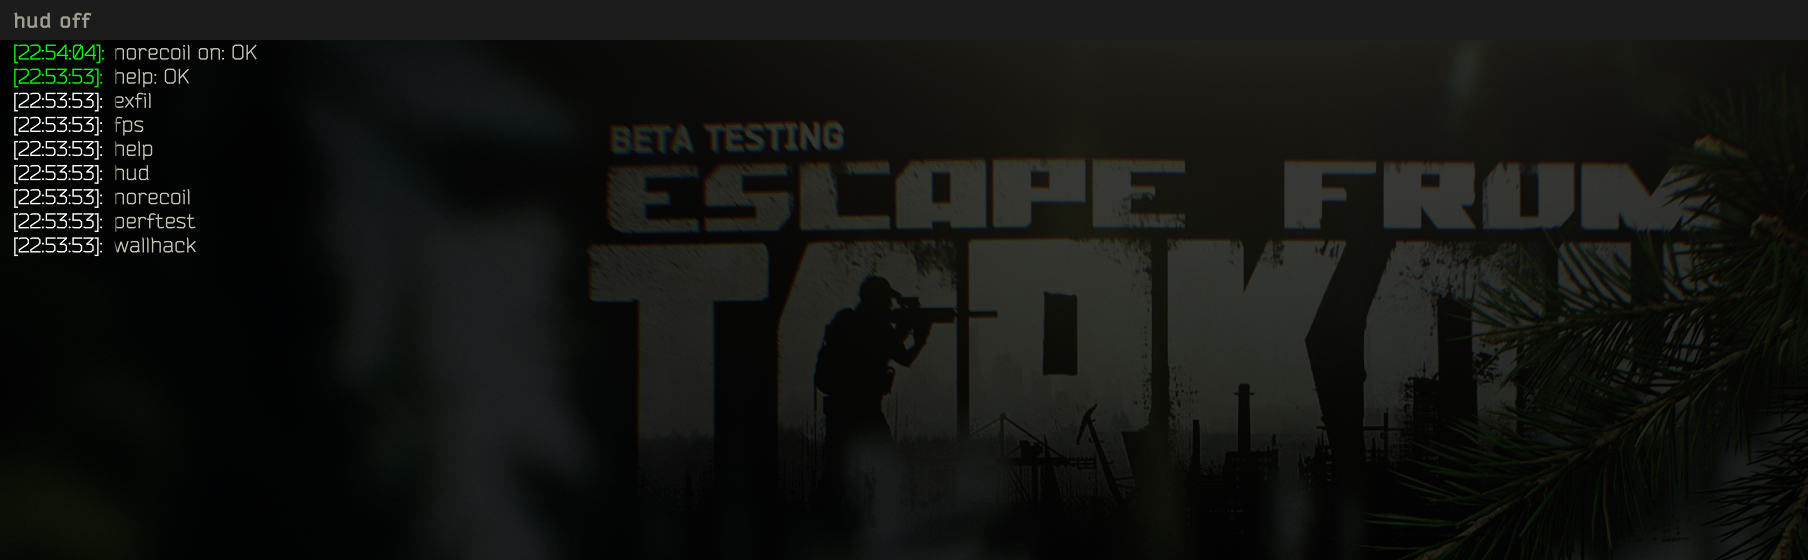
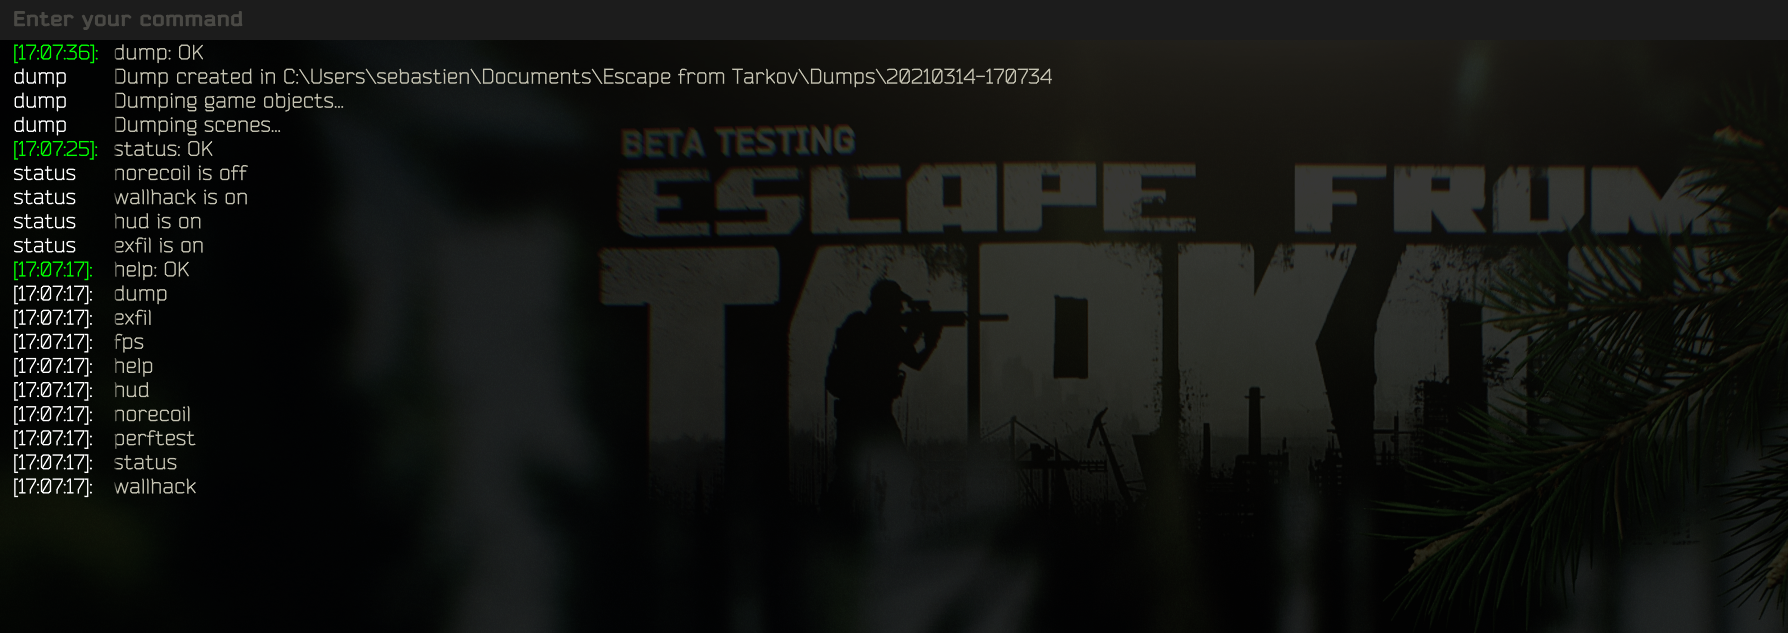
reintroduce scene dumpers, add commands

diff --git a/Features/Commands.cs b/Features/Commands.cs
@@ -1,6 +1,10 @@
-using System.Text.RegularExpressions;
+using System;
+using System.Collections.Generic;
+using System.IO;
+using System.Text.RegularExpressions;
 using EFT.UI;
 using UnityEngine;
+using UnityEngine.SceneManagement;
 
 namespace EFT.Trainer.Features
 {
@@ -8,6 +12,13 @@ namespace EFT.Trainer.Features
 	{
 		public bool Registered { get; set; } = false;
 		public const string ValueGroup = "value";
+		private readonly Dictionary<string, Type> _features = new()
+		{
+			{"exfil", typeof(ExfiltrationPoints)},
+			{"hud", typeof(Hud)},
+			{"wallhack", typeof(Players)},
+			{"norecoil", typeof(Recoil)}
+		};
 
 		public void Update()
 		{
@@ -26,23 +37,68 @@ namespace EFT.Trainer.Features
 			if (commands.Count == 0)
 				return;
 
-			commands.AddCommand(new GClass1907($"exfil (?<{ValueGroup}>(on)|(off))", OnTriggerFeature<ExfiltrationPoints>));
-			commands.AddCommand(new GClass1907($"hud (?<{ValueGroup}>(on)|(off))", OnTriggerFeature<Hud>));
-			commands.AddCommand(new GClass1907($"wallhack (?<{ValueGroup}>(on)|(off))", OnTriggerFeature<Players>));
-			commands.AddCommand(new GClass1907($"norecoil (?<{ValueGroup}>(on)|(off))", OnTriggerFeature<Recoil>));
+			foreach (var (featureName, featureType) in _features)
+			{
+				commands.AddCommand(new GClass1907($"{featureName} (?<{ValueGroup}>(on)|(off))", m => OnTriggerFeature(featureType, m)));
+			}
+
+			commands.AddCommand(new GClass1907("dump", _ => Dump()));
+			commands.AddCommand(new GClass1907("status", _ => Status()));
 
 			Registered = true;
 			Destroy(this);
 		}
 
-		public void OnTriggerFeature<T>(Match match) where T : MonoBehaviour, IEnableable
+		private void Status()
+		{
+			foreach (var (featureName, featureType) in _features)
+			{
+				if (Loader.HookObject.GetComponent(featureType) is not IEnableable feature)
+					return;
+
+				PreloaderUI.Instance.Console.AddLog($"{featureName} is {(feature.Enabled ? "on" : "off")}", "status");
+			}
+		}
+
+		private static void Dump()
+		{
+			var dumpfolder = Path.Combine(Environment.GetFolderPath(Environment.SpecialFolder.MyDocuments), "Escape from Tarkov", "Dumps");
+			var thisDump = Path.Combine(dumpfolder, $"{DateTime.Now:yyyyMMdd-HHmmss}");
+
+			Directory.CreateDirectory(thisDump);
+
+			PreloaderUI.Instance.Console.AddLog("Dumping scenes...", "dump");
+			for (int i = 0; i < SceneManager.sceneCount; i++) 
+			{
+				var scene = SceneManager.GetSceneAt(i);
+				if (!scene.isLoaded)
+					continue;
+
+				var json = SceneDumper.DumpScene(scene).ToPrettyJson();
+				File.WriteAllText(Path.Combine(thisDump, $"@scene - {scene.name}.txt"), json);
+			}
+
+			PreloaderUI.Instance.Console.AddLog("Dumping game objects...", "dump");
+			foreach (var go in FindObjectsOfType<GameObject>())
+			{
+				if (go == null || go.transform.parent != null || !go.activeSelf) 
+					continue;
+
+				var filename = go.name + "-" + go.GetHashCode() + ".txt";
+				var json = SceneDumper.DumpGameObject(go).ToPrettyJson();
+				File.WriteAllText(Path.Combine(thisDump, filename), json);
+			}
+
+			PreloaderUI.Instance.Console.AddLog($"Dump created in {thisDump}", "dump");
+		}
+
+		public void OnTriggerFeature(Type featureType, Match match)
 		{
 			var matchGroup = match?.Groups[ValueGroup];
 			if (matchGroup == null || !matchGroup.Success)
 				return;
 
-			var feature = Loader.HookObject.GetComponent<T>();
-			if (feature == null)
+			if (Loader.HookObject.GetComponent(featureType) is not IEnableable feature)
 				return;
 
 			feature.Enabled = matchGroup.Value switch

diff --git a/Features/SceneDumper.cs b/Features/SceneDumper.cs
@@ -1,0 +1,109 @@
+using System;
+using System.Collections.Generic;
+using UnityEngine;
+using UnityEngine.SceneManagement;
+
+namespace EFT.Trainer.Features
+{
+	public class SceneDumper
+	{
+		[Serializable]
+		public class NamedData
+		{
+			public string Name;
+
+			public NamedData()
+			{
+			}
+
+			public override string ToString()
+			{
+				return Name;
+			}
+		}
+
+		[Serializable]
+		public class SceneData : NamedData
+		{
+			public List<GameObjectData> Roots;
+
+			public SceneData()
+			{
+				Roots = new List<GameObjectData>();
+			}
+		}
+
+		[Serializable]
+		public class GameObjectData : NamedData
+		{
+			public string Tag;
+
+			public List<GameObjectData> Childs;
+			public List<ComponentData> Components;
+
+			public GameObjectData()
+			{
+				Childs = new List<GameObjectData>();
+				Components = new List<ComponentData>();
+			}
+		}
+
+		[Serializable]
+		public class ComponentData
+		{
+			public string Type;
+
+			public ComponentData()
+			{
+			}
+
+			public override string ToString()
+			{
+				return Type;
+			}
+		}
+
+		public static SceneData DumpScene(Scene scene)
+		{
+			var result = new SceneData { Name = scene.name };
+
+			foreach (var root in scene.GetRootGameObjects())
+			{
+				if (root != null)
+				{
+					result.Roots.Add(DumpGameObject(root));
+				}
+			}
+
+			return result;
+		}
+
+		public static GameObjectData DumpGameObject(GameObject root)
+		{
+			var result = new GameObjectData { Name = root.name, Tag = root.tag };
+
+			foreach (Transform transform in root.transform)
+			{
+				if (transform != null && transform.gameObject != null)
+				{
+					result.Childs.Add(DumpGameObject(transform.gameObject));
+				}
+			}
+
+			foreach (var component in root.GetComponents<Component>())
+			{
+				if (component != null)
+				{
+					result.Components.Add(DumpComponent(component));
+				}
+			}
+
+			return result;
+		}
+
+		private static ComponentData DumpComponent(Component component)
+		{
+			return new() { Type = component.GetType().FullName };
+		}
+	}
+}
